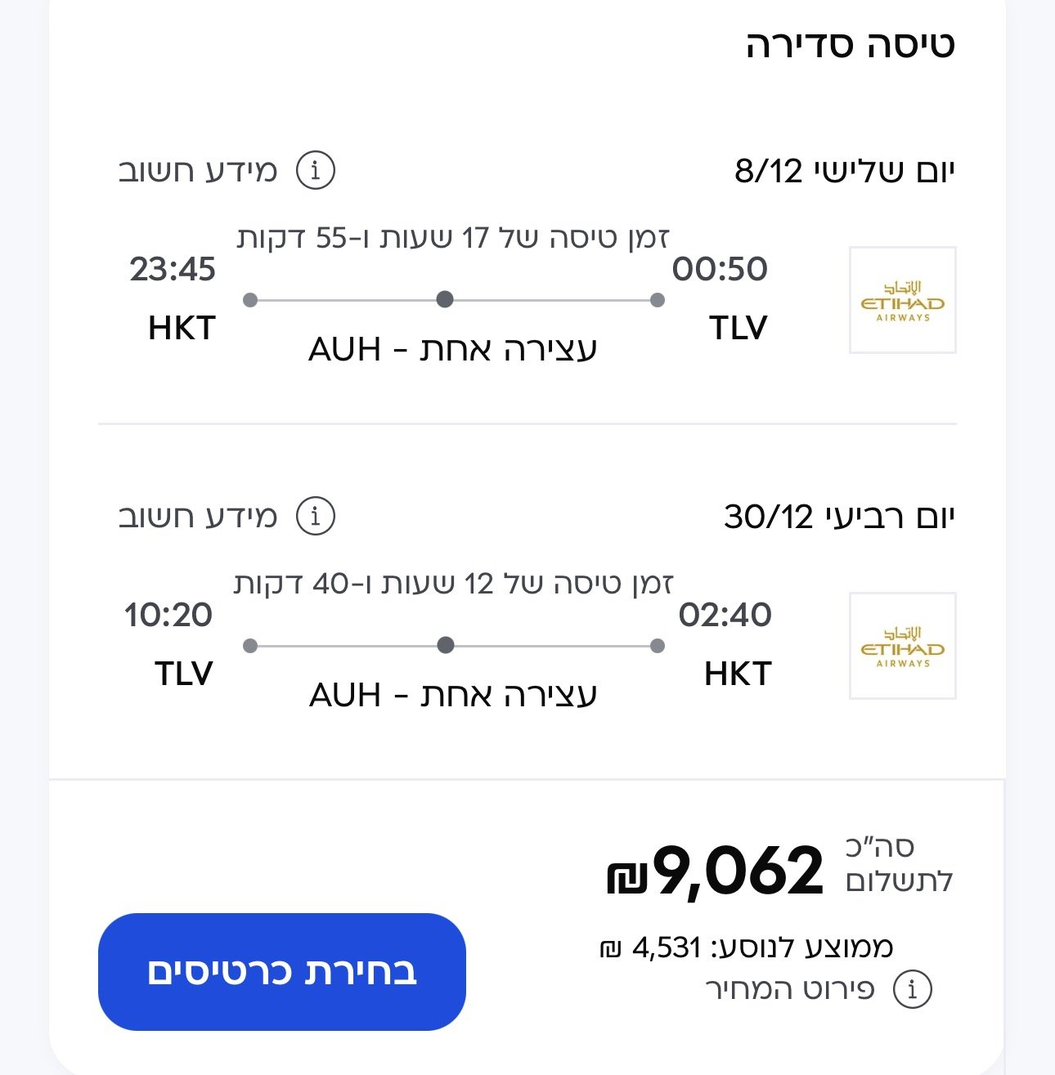
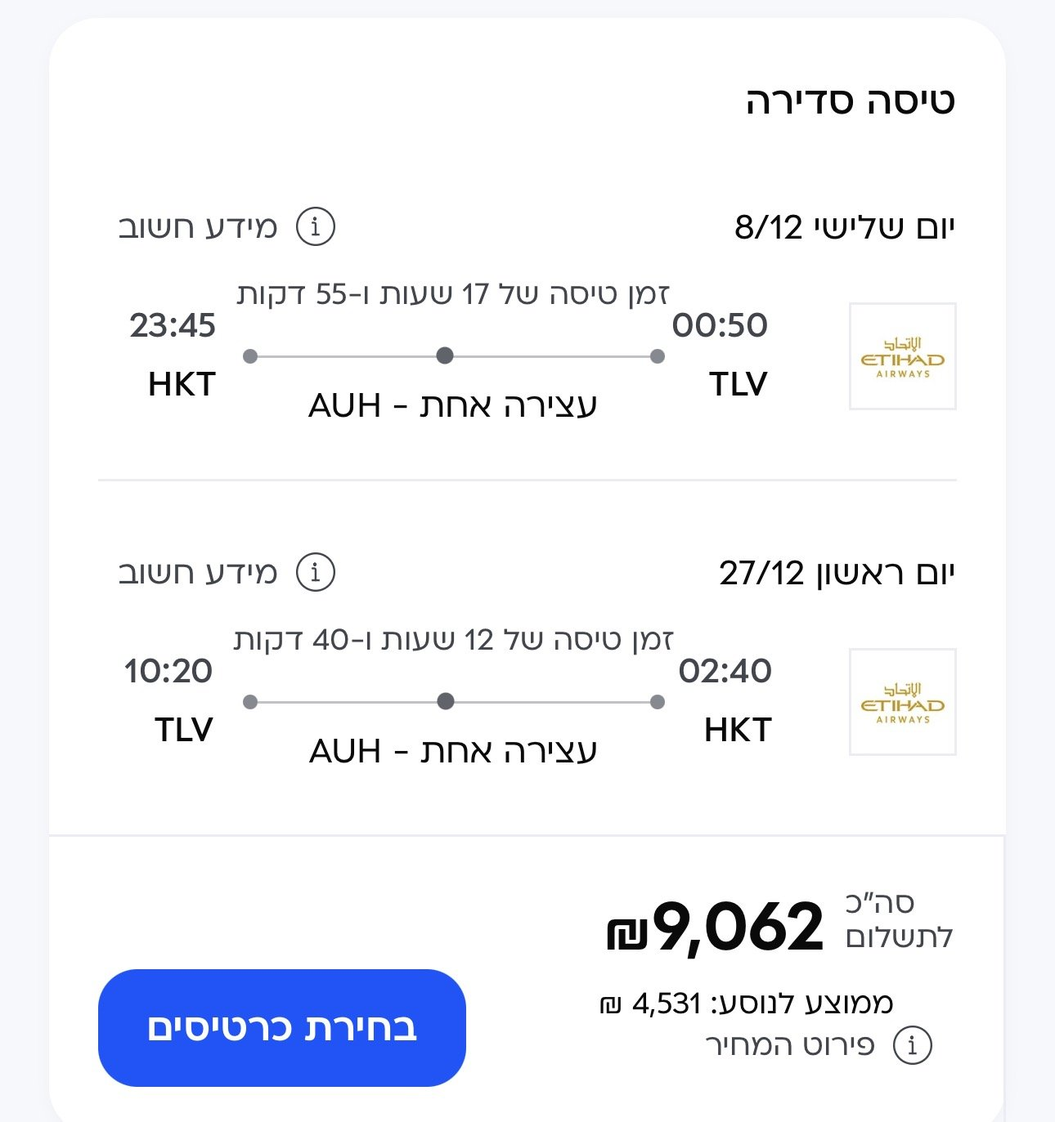
Thailand (7): new route Khao Lak, Krabi, Koh Yao, Phuket; 19 nights; 9330 pp
Claude-Session: https://claude.ai/code/session_018WSLYJBWUEwL12WjhLtbB7

diff --git a/thailand-0812/index.html b/thailand-0812/index.html
@@ -5,14 +5,14 @@
 <meta name="viewport" content="width=device-width, initial-scale=1">
 <meta name="description" content="הצעת מחיר אישית מ-Masia Global Journeys · אתונה · 27.11–1.12.2026">
 <meta property="og:site_name" content="Masia Global Journeys">
-<meta property="og:title" content="הצעת מחיר · תאילנד · פוקט וקראבי · 22 לילות · טיסות אתיחאד | Masia">
-<meta property="og:description" content="טיסות + מזוודה וטרולי + 3 מלונות עם ארוחת בוקר + כל ההעברות · ₪9,500 לנוסע">
+<meta property="og:title" content="הצעת מחיר · תאילנד · חאו לאק, קראבי, קו יאו ופוקט · 19 לילות · טיסות אתיחאד | Masia">
+<meta property="og:description" content="טיסות + מזוודה וטרולי + 4 מלונות עם ארוחת בוקר + כל ההעברות · ₪9,330 לנוסע">
 <meta property="og:image" content="https://masiatravels.github.io/thailand-0812/img/og.jpg">
 <meta property="og:type" content="website">
 <meta property="og:url" content="https://masiatravels.github.io/thailand-0812/">
 <meta property="og:image:width" content="1200"><meta property="og:image:height" content="630">
 <link rel="icon" href="img/logo.png">
-<title>הצעת מחיר · תאילנד · 22 לילות | Masia</title>
+<title>הצעת מחיר · תאילנד · 19 לילות | Masia</title>
 <link rel="preconnect" href="https://fonts.googleapis.com">
 <link href="https://fonts.googleapis.com/css2?family=Rubik:wght@400;500;700;800&family=Heebo:wght@300;400;500;700&family=Frank+Ruhl+Libre:wght@500;700;900&display=swap" rel="stylesheet">
 <style>
@@ -255,38 +255,45 @@ const Q = {
   pax: 7,
   dest: "תאילנד",
   demoRatings: false,
-  hero: "duangjitt.jpg",
-  title: "תאילנד · פוקט וקראבי — 22 לילות לכל המשפחה",
-  chips: ["👨👩👧👦 7 נוסעים", "🌙 22 לילות בשלושה מלונות", "✈ טיסות אתיחאד", "🛏 3 חדרים: 2 זוגיים + חדר לשלושה", "📅 8–30.12.2026"],
+  hero: "maikhaolak.jpg",
+  title: "תאילנד · חאו לאק, קראבי, קו יאו ופוקט — 19 לילות לכל המשפחה",
+  chips: ["👨👩👧👦 7 נוסעים", "🌙 19 לילות ב־4 מלונות", "✈ טיסות אתיחאד", "🛏 3 חדרים: 2 זוגיים + חדר לשלושה", "📅 8–27.12.2026"],
   whatsapp: "972552991289",
   validUntil: "בכפוף לזמינות",
   optionsTitle: "המחיר — הכול כלול",
   options: [
-    { tag: "חבילה משפחתית מלאה", meta: "טיסות + מזוודה וטרולי + 3 מלונות עם ארוחת בוקר + כל ההעברות", pp: 9500 }
+    { tag: "חבילה משפחתית מלאה", meta: "טיסות + מזוודה וטרולי + 4 מלונות עם ארוחת בוקר + כל ההעברות", pp: 9330 }
   ],
-  optionsNote: "המחיר כולל: טיסות הלוך וחזור של אתיחאד עם מזוודה וטרולי לכל נוסע, 22 לילות בשלושה מלונות עם ארוחת בוקר כל יום לכל נוסע, וכל ההעברות: משדה התעופה למלון, בין המלונות, ומהמלון לשדה בסוף הטיול. 🛡 ביטול כרטיסי הטיסה ללא עלות במקרה של מלחמה.<br><br>✈ <b>למה המחיר עלה?</b> עברנו לטיסות של אתיחאד, דרך אבו דאבי. היא חברה יקרה יותר מהחברה הקודמת, ורק הטיסות לבד עולות ₪4,531 לנוסע (צילום המחיר למטה). לכן המחיר הוא ₪9,500 לנוסע.<br><img src=\"img/etihad.jpg\" alt=\"מחיר טיסות אתיחאד\" style=\"width:100%;max-width:420px;border-radius:12px;margin:10px 0;border:1px solid #e5dccb\"><br>💡 <b>למה המחיר שונה ממה שראיתם בפייסבוק?</b> המחיר בפייסבוק היה לחבילה של 17 לילות ו־18 ימים. אתם בונים טיול ארוך יותר: 22 לילות בשלושה מלונות שונים, עם כל ההעברות ביניהם, ולכן המחיר בהתאם.",
-  flightsIntro: "טיסות של אתיחאד עם עצירה אחת באבו דאבי. ההמראה מתל אביב בלילה שבין 7 ל־8 בדצמבר (00:50), ונוחתים בפוקט ב־8.12 בלילה. ההעברה כבר מחכה לכם בשדה, והחדר במלון הראשון מוכן לכם מיד כשמגיעים.",
+  optionsNote: "המחיר כולל: טיסות הלוך וחזור של אתיחאד עם מזוודה וטרולי לכל נוסע, 19 לילות ב־4 מלונות עם ארוחת בוקר כל יום לכל נוסע, וכל ההעברות: משדה התעופה למלון, בין המלונות (כולל הסירות לאי ומהאי), ומהמלון לשדה בסוף הטיול. 🛡 ביטול כרטיסי הטיסה ללא עלות במקרה של מלחמה.<br><br>✈ <b>למה המחיר עלה?</b> עברנו לטיסות של אתיחאד, דרך אבו דאבי. היא חברה יקרה יותר מהחברה הקודמת, ורק הטיסות לבד עולות ₪4,531 לנוסע (צילום המחיר למטה). לכן המחיר הוא ₪9,330 לנוסע.<br><img src=\"img/etihad.jpg\" alt=\"מחיר טיסות אתיחאד\" style=\"width:100%;max-width:420px;border-radius:12px;margin:10px 0;border:1px solid #e5dccb\"><br>💡 <b>למה המחיר שונה ממה שראיתם בפייסבוק?</b> המחיר בפייסבוק היה לחבילה של 17 לילות ו־18 ימים. אתם בונים טיול ארוך יותר: 19 לילות ב־4 מלונות שונים, עם כל ההעברות והסירות ביניהם, ולכן המחיר בהתאם.",
+  flightsIntro: "טיסות של אתיחאד עם עצירה אחת באבו דאבי. ההמראה מתל אביב בלילה שבין 7 ל־8 בדצמבר (00:50), ונוחתים בפוקט ב־8.12 בלילה. ההעברה לחאו לאק כבר מחכה לכם בשדה (כשעה וחצי נסיעה), והחדר במלון הראשון מוכן לכם מיד כשמגיעים.",
   legs: [
     { badge: "הלוך", date: "יום ג׳ 8.12.2026", time: "00:50", from: "תל אביב", to: "פוקט", airline: "אתיחאד · עצירה באבו דאבי", info: "המראה 00:50 (בלילה שבין 7 ל־8.12) · נחיתה בפוקט 23:45 (8.12, שעון תאילנד) · 17:55 שעות כולל העצירה" },
-    { badge: "חזור", date: "יום ד׳ 30.12.2026", time: "02:40", from: "פוקט", to: "תל אביב", airline: "אתיחאד · עצירה באבו דאבי", info: "המראה 02:40 (בלילה שבין 29 ל־30.12) · נחיתה בתל אביב 10:20 (30.12) · 12:40 שעות כולל העצירה" }
+    { badge: "חזור", date: "יום א׳ 27.12.2026", time: "02:40", from: "פוקט", to: "תל אביב", airline: "אתיחאד · עצירה באבו דאבי", info: "המראה 02:40 (בלילה שבין 26 ל־27.12) · נחיתה בתל אביב 10:20 (27.12) · 12:40 שעות כולל העצירה" }
   ],
   bag: "🧳 כבודה: מזוודה + טרולי לכל נוסע, הלוך וחזור",
   hotels: [
-    { map: "Sawaddi Patong Resort & Spa, 21 Sainamyen Road, Patong, Phuket", place: "מלון 1 · Sawaddi Patong Resort & Spa · פוקט, פטונג", stars: 4, where: "במרכז פטונג, בצד השקט של העיר", nights: 10, dates: "8–18.12.2026",
-      score: "8.4", scoreWord: "טוב מאוד", reviews: "",
-      about: "🌴 <b>אווירה תאילנדית אמיתית, במרכז פטונג</b><br>ריזורט 4 כוכבים בסגנון תאילנדי חם שעבר שיפוץ ב־2024, עם שתי בריכות גדולות, בריכת ילדים, ספא וחדר כושר. המלון ממוקם ברחוב שקט יחסית, אבל הכול בהליכה: קניון ג׳ונגסילון (עם משחקייה, באולינג וסופרמרקט) כ־9 דקות, שוק הפירות והאוכל בנזאן כ־10 דקות, וחוף פטונג כ־12 דקות. יש גם שאטל חינם באזור.<br><br>👨👩👧 <b>למה זה מתאים למשפחה?</b><br>מלון לא ענק ונוח להתמצאות, שתי בריכות ובריכת ילדים, וקרוב לכל השירותים — מושלם גם לסבא וסבתא שלא רוצים ללכת רחוק, וגם לילדים שרוצים בריכה כל היום.<br><br>✡ <b>בית חב״ד פוקט</b><br>בית חב״ד הגדול של פוקט נמצא בפטונג, ברחוב Rat-U-Thit 200 Pee — כ־1 ק״מ מהמלון, בערך 10–15 דקות הליכה או נסיעה קצרה בטוקטוק. יש שם בית כנסת, מסעדה כשרה בשרית, פיצרייה חלבית, מכולת עם מוצרים כשרים ומקווה. מסביב יש עוד כמה מסעדות כשרות ובעלי עסקים ישראלים.<br><br>🎯 <b>מה עושים בפוקט עם הילדים</b><br>שייט לאיי פי פי, פארק המים אנדמנדה, מקלט פילים אתי, הבודהה הגדול, העיר העתיקה של פוקט ושווקי לילה.",
-      near: [["9 דק׳","הליכה לקניון ג׳ונגסילון"],["10 דק׳","הליכה לשוק בנזאן"],["12 דק׳","הליכה לחוף פטונג"],["~1 ק״מ","לבית חב״ד פוקט"]],
-      photos: [["s_pool1.jpg","הבריכה הגדולה של המלון"],["s_night.jpg","הבריכה בערב"],["s_pool2.jpg","הבריכה והגן"],["s_pool3.jpg","הבריכה ובריכת הילדים"],["s_room.jpg","חדר במלון"]],
-      bullets: ["ארוחת בוקר כל יום","2 בריכות + בריכת ילדים וספא","כ־1 ק״מ מבית חב״ד ומהמסעדות הכשרות"],
+    { map: "Mai Khaolak Beach Resort & Spa, 9/17 Petchkasem Rd, Moo 1, Kuk Kak, Takua Pa, Khao Lak", place: "מלון 1 · Mai Khao Lak Beach Resort & Spa · חאו לאק", stars: 5, where: "על החוף, בצפון חאו לאק", nights: 5, dates: "8–13.12.2026",
+      score: "8.9", scoreWord: "מצוין", reviews: "832",
+      about: "🌊 <b>ריזורט חוף ענק, כל מה שצריך בתוך המלון</b><br>ריזורט יוקרה על חוף פרטי ארוך, בתוך גנים טרופיים, עם 3 בריכות, פארק מים חינם לאורחים, מועדון ילדים וספא. האורחים נותנים לחוף ציון 9.2 ולארוחת הבוקר 9.0.<br><br>👨👩👧 <b>למה זה מושלם למשפחה</b><br>חאו לאק שקטה ורגועה בהרבה מפוקט: חופים רחבים ונקיים, ים רגוע ואווירה משפחתית. הילדים נהנים מפארק המים, מהבריכות וממועדון הילדים, והמבוגרים נחים על החוף ובספא. התחלה רגועה אחרי טיסה ארוכה.<br><br>🎯 <b>מה עושים באזור</b><br>• שייט לאיי סימילן, מהיפים בתאילנד לשנורקלינג<br>• הפארק הלאומי חאו סוק: אגם צ׳או לאן, ג׳ונגל ומפלים<br>• מפל טון צ׳ונג פה וחוות פילים<br><br>🚐 <b>הגעה</b><br>כשעה וחצי נסיעה משדה התעופה בפוקט. ההעברה כלולה ומחכה לכם בשדה.",
+      near: [["0 דק׳","על החוף הפרטי של המלון"],["5 דק׳","נסיעה לחוף באנג סאק"],["~1.5 שע׳","נסיעה משדה התעופה בפוקט"],["~1.5 שע׳","נסיעה לפארק חאו סוק"]],
+      photos: [["maikhaolak.jpg","הבריכה הגדולה של המלון"]],
+      bullets: ["ארוחת בוקר כל יום (ציון 9.0)","חוף פרטי, 3 בריכות ופארק מים","מועדון ילדים וספא"],
       policy: "" },
-    { map: "Centara Life Phu Pano Resort Krabi, 879 Moo 2 Soi Ao Nang 11, Krabi", place: "מלון 2 · Centara Life Phu Pano Resort · קראבי, אאו נאנג", stars: 0, where: "בין הצוקים הירוקים של קראבי, דקות מחוף אאו נאנג", nights: 6, dates: "18–24.12.2026",
+    { map: "Centara Life Phu Pano Resort Krabi, 879 Moo 2 Soi Ao Nang 11, Krabi", place: "מלון 2 · Centara Life Phu Pano Resort · קראבי, אאו נאנג", stars: 0, where: "בין הצוקים הירוקים של קראבי, דקות מחוף אאו נאנג", nights: 6, dates: "13–19.12.2026",
       score: "8.5", scoreWord: "טוב מאוד", reviews: "2,235",
       about: "🏞 <b>הטבע הכי יפה בתאילנד</b><br>ריזורט מודרני של רשת סנטרה, מוקף בצוקי הגיר המפורסמים של קראבי, עם בריכת אינפיניטי גדולה ובריכת ילדים. חוף אאו נאנג במרחק כ־2 דקות נסיעה, והמלון מפעיל שאטל לחוף.<br><br>👨👩👧 <b>למה זה מתאים למשפחה?</b><br>המלון תוכנן במיוחד למשפחות: יש חדרים משפחתיים עם מיטות קומתיים לילדים, בריכת ילדים ושירותי בייביסיטר. אזור אאו נאנג רגוע הרבה יותר מפטונג — מושלם להורים, לילדים ולסבא וסבתא.<br><br>✡ <b>אוכל כשר ובית כנסת</b><br>באאו נאנג יש מסעדה כשרה ובית כנסת (״בית הלל״), כ־5 דקות נסיעה מהמלון.<br><br>🎯 <b>מה עושים בקראבי כמשפחה</b><br>• שייט בסירת זנב ארוך ל״4 האיים״ — מים צלולים, שנורקלינג ודגים צבעוניים<br>• חוף ריילי, שמגיעים אליו רק בסירה, בין צוקים ענקיים<br>• הבריכה האמרלד והמעיינות החמים בג׳ונגל — מים חמימים וטבעיים, מתאים גם למבוגרים<br>• איי הונג והלגונה הנסתרת<br>• מקדש מערת הנמר ושוק הלילה של אאו נאנג",
       near: [["2 דק׳","נסיעה לחוף אאו נאנג (יש שאטל)"],["~5 דק׳","נסיעה למסעדה הכשרה ולבית הכנסת"],["15 דק׳","נסיעה לחוף נופרט טארה"],["35 דק׳","נסיעה לשדה התעופה קראבי"]],
       photos: [["k_aerial.jpg","המלון מלמעלה, מוקף צוקי קראבי"],["k_sunset.jpg","הבריכה בשקיעה"],["centara.jpg","בריכת האינפיניטי של המלון"],["k_pool1.jpg","בריכת האינפיניטי והנוף להרים"],["k_pool2.jpg","הבריכה ובניין המלון"],["k_room.jpg","חדר במלון"]],
       bullets: ["ארוחת בוקר כל יום","חדרים משפחתיים ובריכת ילדים","שאטל לחוף אאו נאנג"],
       policy: "" },
-    { map: "Duangjitt Resort, 18 Prachanukroh Road, Patong, Phuket", place: "מלון 3 · Duangjitt Resort & Spa · פוקט, פטונג", stars: 5, where: "3 דקות הליכה מחוף פטונג", nights: 6, dates: "24–30.12.2026",
+    { map: "Blue Bay Resort, 89/1-3 Moo 7, Phru Nai, Koh Yao Yai, Phang Nga", place: "מלון 3 · Blue Bay Resort · האי קו יאו יאי", stars: 5, where: "על חוף לו פארד, באי קו יאו יאי", nights: 4, dates: "19–23.12.2026",
+      score: "9.0", scoreWord: "מצוין", reviews: "358",
+      about: "🏝 <b>אי שקט באמצע מפרץ פאנג נגה</b><br>קו יאו יאי הוא אי ירוק ושקט בין פוקט לקראבי, בלי המונים ובלי רעש. המלון יושב ממש על חוף לו פארד, עם חוף פרטי ו־6 בריכות. האורחים נותנים למיקום ציון 9.6, לחוף 9.4 ולבריכות 9.1.<br><br>👨👩👧 <b>למה זה מושלם למשפחה</b><br>4 ימים של שקט אמיתי: ים רגוע ורדוד, בריכות לילדים, קיאקים ואופניים. מקום מושלם לנוח לפני הימים האחרונים בפוקט.<br><br>🎯 <b>מה עושים באי</b><br>• קיאקים ושייט בין האיים הקטנים של המפרץ<br>• סיבוב אופניים בכפרים ובין מטעי הגומי<br>• שקיעה על החוף מול האיים<br><br>⛴ <b>הגעה</b><br>בסירה מקראבי, ומהאי לפוקט כ־30 דקות בסירה מהירה. כל ההעברות כלולות.",
+      near: [["0 דק׳","על חוף לו פארד"],["10 דק׳","נסיעה לרציף של האי"],["~30 דק׳","סירה מהירה לפוקט"]],
+      photos: [],
+      bullets: ["ארוחת בוקר כל יום","חוף פרטי ו־6 בריכות","ציון מיקום 9.6"],
+      policy: "" },
+    { map: "Duangjitt Resort, 18 Prachanukroh Road, Patong, Phuket", place: "מלון 4 · Duangjitt Resort & Spa · פוקט, פטונג", stars: 5, where: "3 דקות הליכה מחוף פטונג", nights: 4, dates: "23–27.12.2026",
       score: "8.9", scoreWord: "מצוין", reviews: "2,712",
       about: "💦 <b>גן עדן לילדים — מגלשות מים בתוך המלון</b><br>ריזורט 5 כוכבים ענק וירוק, שקט כמו גן טרופי, עם 3 בריכות, מגלשות מים, בריכת ילדים ומועדון ילדים חינם. הבריכה מקבלת ציון 9.4 מהאורחים, והמיקום 9.2. בבריכות יש ברים שאפשר לשבת בהם בתוך המים, ויש גם ספא תאילנדי.<br><br>👨👩👧 <b>למה זה מתאים למשפחה?</b><br>הילדים לא ירצו לצאת מהבריכות והמגלשות, ויש מועדון ילדים. ההורים והסבים נהנים מגן שקט וירוק, מהספא ומחוף פטונג שנמצא 3 דקות הליכה בלבד. אחרי טיול ארוך — סיום מושלם ורגוע של החופשה.<br><br>✡ <b>בית חב״ד פוקט</b><br>בית חב״ד פוקט נמצא גם הוא בפטונג, כ־1 ק״מ מהמלון — כ־10–15 דקות הליכה או נסיעה קצרה בטוקטוק — עם בית כנסת, מסעדה כשרה ופיצרייה חלבית.<br><br>🎯 <b>מה יש בסביבה לילדים</b><br>חוף פטונג ממש ליד, מיני־גולף דינו פארק, פארק המים אנדמנדה, חוף קרון במרחק 5 דקות נסיעה, וקניון ג׳ונגסילון.",
       near: [["3 דק׳","הליכה לחוף פטונג"],["~1 ק״מ","לבית חב״ד פוקט"],["5 דק׳","נסיעה לחוף קרון"],["16 דק׳","הליכה לקניון ג׳ונגסילון"]],
@@ -296,17 +303,19 @@ const Q = {
   ],
   policy: "",
   itinerary: [
-    ["7–8.12","המראה 00:50 מתל אביב (בלילה שבין 7 ל־8.12), עצירה באבו דאבי ונחיתה בפוקט ב־23:45. העברה למלון הראשון בפטונג, החדר מוכן"],
-    ["8–18.12","10 לילות ב־Sawaddi Patong: חופים, שייט לאיי פי פי, פילים, פארק מים ובית חב״ד"],
-    ["18.12","העברה מפוקט לקראבי (כ־2.5–3 שעות נסיעה), כלולה"],
-    ["18–24.12","6 לילות ב־Centara Krabi: 4 האיים, חוף ריילי, מעיינות חמים וטבע מטורף"],
-    ["24.12","העברה מקראבי חזרה לפטונג, כלולה"],
-    ["24–30.12","6 לילות ב־Duangjitt Resort: מגלשות מים, בריכות וחוף פטונג"],
-    ["29–30.12","בלילה של 29.12 העברה לשדה, המראה 02:40 ונחיתה בתל אביב ב־10:20"]
+    ["7–8.12","המראה 00:50 מתל אביב (בלילה שבין 7 ל־8.12), עצירה באבו דאבי ונחיתה בפוקט ב־23:45. העברה לחאו לאק, החדר מוכן"],
+    ["8–13.12","5 לילות ב־Mai Khao Lak: חוף פרטי, פארק מים, שייט לאיי סימילן וחאו סוק"],
+    ["13.12","העברה מחאו לאק לקראבי, כלולה"],
+    ["13–19.12","6 לילות ב־Centara Krabi: 4 האיים, חוף ריילי, מעיינות חמים וטבע מטורף"],
+    ["19.12","סירה מקראבי לאי קו יאו יאי, כלולה"],
+    ["19–23.12","4 לילות ב־Blue Bay באי קו יאו יאי: שקט, חוף פרטי וקיאקים"],
+    ["23.12","סירה מהאי לפוקט והעברה למלון בפטונג, כלולה"],
+    ["23–27.12","4 לילות ב־Duangjitt Resort: מגלשות מים, בריכות וחוף פטונג"],
+    ["26–27.12","בלילה של 26.12 העברה לשדה, המראה 02:40 ונחיתה בתל אביב ב־10:20"]
   ],
-  included: ["טיסות אתיחאד הלוך וחזור תל אביב – פוקט (עצירה באבו דאבי)","מזוודה + טרולי לכל נוסע","22 לילות בשלושה מלונות","3 חדרים: 2 חדרים זוגיים וחדר אחד לשלושה","ארוחת בוקר כל יום לכל נוסע","העברה משדה התעופה למלון הראשון","העברות בין כל המלונות (פוקט ← קראבי ← פוקט)","העברה מהמלון האחרון לשדה התעופה","ביטול כרטיסי הטיסה ללא עלות במקרה של מלחמה","ליווי אישי שלנו מההזמנה ועד הנחיתה"],
+  included: ["טיסות אתיחאד הלוך וחזור תל אביב – פוקט (עצירה באבו דאבי)","מזוודה + טרולי לכל נוסע","19 לילות ב־4 מלונות","3 חדרים: 2 חדרים זוגיים וחדר אחד לשלושה","ארוחת בוקר כל יום לכל נוסע","העברה משדה התעופה למלון הראשון","העברות בין כל המלונות (חאו לאק ← קראבי ← קו יאו ← פוקט, כולל הסירות)","העברה מהמלון האחרון לשדה התעופה","ביטול כרטיסי הטיסה ללא עלות במקרה של מלחמה","ליווי אישי שלנו מההזמנה ועד הנחיתה"],
   excluded: "ארוחות צהריים וערב ומשקאות · טיולים ואטרקציות · ביטוח נסיעות · מס עירוני במלונות (אם נדרש, משולם במקום)",
-  totalNote: "המחיר לנוסע, כולל טיסות אתיחאד, מזוודה וטרולי, 22 לילות עם ארוחת בוקר וכל ההעברות.",
+  totalNote: "המחיר לנוסע, כולל טיסות אתיחאד, מזוודה וטרולי, 19 לילות עם ארוחת בוקר וכל ההעברות.",
   pay: ["עד 9 תשלומים ללא ריבית","אפשרות ביותר מכרטיס אשראי אחד","העברה בנקאית","מזומן לפי חוק המזומן בישראל"],
   terms: ["המחיר בכפוף לזמינות בעת ההזמנה.","המחיר לנוסע, ל־7 נוסעים ב־3 חדרים (2 חדרים זוגיים + חדר לשלושה).","במקרה של מלחמה — ביטול כרטיסי הטיסה ללא עלות.","הדרכון חייב להיות בתוקף לפחות חצי שנה אחרי תאריך החזרה.","שעות הטיסה סופיות רק לאחר אישור ההזמנה."]
 };
